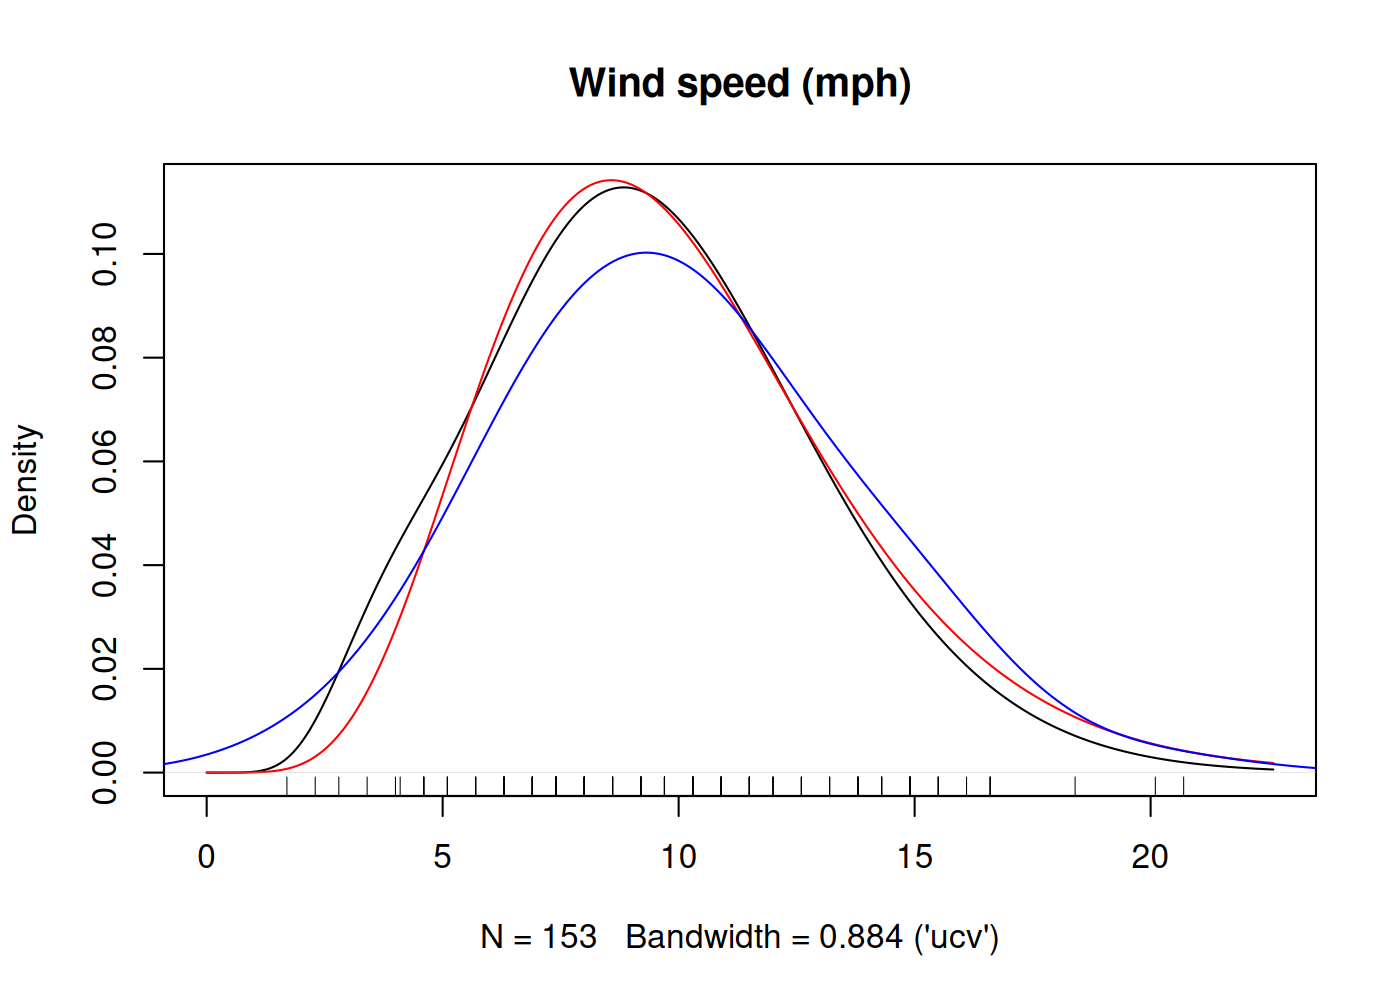
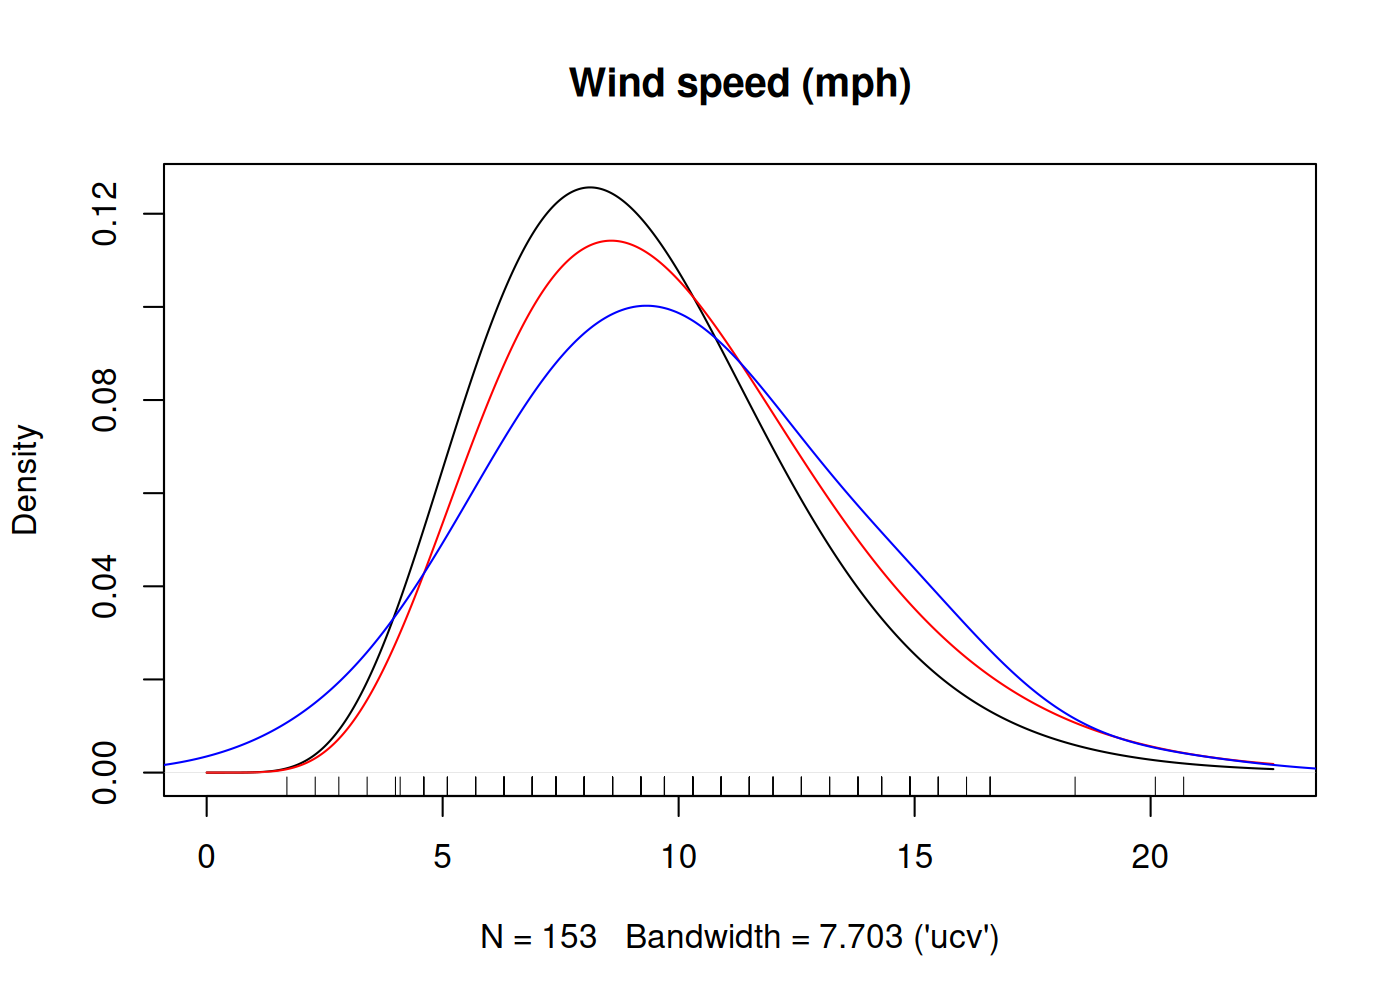
Fix the gamma kernel to Chen's modified kernel; normalize the UCV criterion
kernel = "gamma" used shape rho_b(y) + 1 instead of Chen's (2000)
rho_b(y) = y / h for y >= 2h and (y / (2h))^2 + 1 below. For y >= 2h it
therefore coincided with gamma_biased (mean y + h), and its boundary piece
made it worse than the uncorrected kernel. The shape now lives in one C++
helper used by the evaluator and the UCV pair loop; the R kernel matches.
Tests are written from the paper, not from the code.

The UCV criterion compared the integral of the squared normalized estimate
with unnormalized leave-one-out estimates. With the corrected gamma kernel
the normalizer rises with h (to about 1.2), so UCV oversmoothed badly
(gamma(2), n = 60: 0.45 vs an ISE optimum of 0.11). The leave-one-out term
is now divided by the full-data normalizer; the criterion is extracted into
make_ucv_objective() and checked against an independent implementation,
including the fallback when the compiled leave-one-out fit fails. The
regression pin moves from 0.0527 to 0.1078.

NEWS now has a development-version heading: 1.3.0 was never released and
its changes go into 2.0.0.

diff --git a/src/kernels.cpp b/src/kernels.cpp
@@ -193,6 +193,19 @@ double compact_range_sum(int left, int right, const int kernel_id,
   return out;
 }
 
+// Gamma-kernel shape at evaluation point y; the scale is always h.
+// kernel_id 13 is Chen's (2000) first kernel, shape y / h + 1 (mean y + h).
+// kernel_id 12 is his modified kernel, shape rho_b(y) = y / h for y >= 2h and
+// (y / (2h))^2 + 1 below, whose interior mean is exactly y.
+double gamma_kernel_shape(const double y, const double h,
+                          const int kernel_id) {
+  if (kernel_id == 13) {
+    return y / h + 1.0;
+  }
+  const double ratio = y / h;
+  return y >= 2.0 * h ? ratio : 0.25 * ratio * ratio + 1.0;
+}
+
 double beta_boundary_parameter(const double y, const double h,
                                const double rho_base) {
   return 2.0 * h * h + 2.5 -
@@ -343,9 +356,7 @@ double pair_log_kernel(const double y, const double x, const double h,
     return -inside / (2.0 * (1.0 - rho * rho));
   }
   if (kernel_id == 12 || kernel_id == 13) {
-    const double shape = kernel_id == 12 && y < 2.0 * h
-      ? 0.25 * (y / h) * (y / h) + 2.0
-      : y / h + 1.0;
+    const double shape = gamma_kernel_shape(y, h, kernel_id);
     return x > 0.0
       ? (shape - 1.0) * (log_x - std::log(h)) - x / h -
         std::lgamma(shape)
@@ -726,12 +737,8 @@ NumericVector kernel_weighted_sum_cpp(const NumericVector& y,
 
     if (kernel_id == 11) {
       qy = R::qnorm5(yi, 0.0, 1.0, true, false);
-    } else if (kernel_id == 12) {
-      shape1 = yi >= lower_cut
-        ? yi / h + 1.0
-        : 0.25 * (yi / h) * (yi / h) + 2.0;
-    } else if (kernel_id == 13) {
-      shape1 = yi / h + 1.0;
+    } else if (kernel_id == 12 || kernel_id == 13) {
+      shape1 = gamma_kernel_shape(yi, h, kernel_id);
     } else if (kernel_id == 14) {
       if (yi < lower_cut) {
         shape1 = beta_boundary_parameter(yi, h, rho_base);

diff --git a/NEWS.md b/NEWS.md
@@ -1,7 +1,15 @@
-## kdensity 1.3.0 (2026-07-20)
+## kdensity (development version)
+
+Version 1.3.0 was never released; its changes are part of this version.
 
 ### Breaking changes
 
+* `kernel = "gamma"` now implements Chen's (2000) modified gamma kernel, a
+  gamma density with scale `h` and shape `y / h` for `y >= 2h` and
+  `(y / (2h))^2 + 1` below. Earlier versions used a shape one larger, so for
+  `y >= 2h` the kernel coincided with the uncorrected `gamma_biased` kernel and
+  its boundary modification increased the error. Every fit that uses the gamma
+  kernel changes, including the bandwidths selected for it.
 * `update()` on a `kdensity` object now returns a new object and follows R's
   copy-on-modify semantics instead of modifying the caller's variable in place.
   Replace `update(kde, ...)` with `kde <- update(kde, ...)`. The `$<-` and
@@ -44,6 +52,13 @@
 
 ### Bug fixes
 
+* `bw = "ucv"` for asymmetric kernels and for parametric starts compared the
+  integral of the squared *normalized* estimate with *unnormalized*
+  leave-one-out estimates. Both terms are now normalized. Since the gamma
+  kernels' normalizer grows with the bandwidth, the old criterion pulled
+  strongly towards oversmoothing. Selected bandwidths change for these
+  combinations; symmetric kernels with a uniform start use `stats::bw.ucv()`
+  and are unaffected.
 * `bw = "ucv"` for asymmetric kernels (`gamma`, `beta`, and their bias-corrected
   variants) with a non-uniform parametric start set the kernel's shape from the
   wrong data point, making the objective inconsistent with the estimator.

diff --git a/tools/verification/asymmetric-grids/CONTRACT.md b/tools/verification/asymmetric-grids/CONTRACT.md
@@ -28,8 +28,9 @@ parametric-start correction, or replace `Z`.
 The reference branch rules are the rules in `src/kernels.cpp`:
 
 - `gamma_biased`: gamma shape `a(y) = y / h + 1` and scale `h`;
-- `gamma`: `a(y) = (y / h)^2 / 4 + 2` when `y < 2h`, otherwise
-  `a(y) = y / h + 1`;
+- `gamma`: `a(y) = (y / h)^2 / 4 + 1` when `y < 2h`, otherwise
+  `a(y) = y / h` (Chen's modified kernel; corrected in 2.0.0, earlier
+  versions used `a(y) + 1`);
 - `beta_biased`: beta shapes `a(y) = y / h + 1` and
   `b(y) = (1 - y) / h + 1`;
 - `beta`: use the lower corrected shapes when `y < 2h`, the interior

diff --git a/README.md b/README.md
@@ -137,9 +137,9 @@ For example, you can do:
 
 ``` r
 kde(10)
-#> [1] 0.1067221
+#> [1] 0.1075401
 integrate(kde, lower = 0, upper = 1) # The cumulative distribution up to 1.
-#> 2.55945e-05 with absolute error < 4e-19
+#> 8.819352e-06 with absolute error < 1.5e-19
 ```
 
 For large plotting grids, `kdensity_grid()` provides an explicitly
